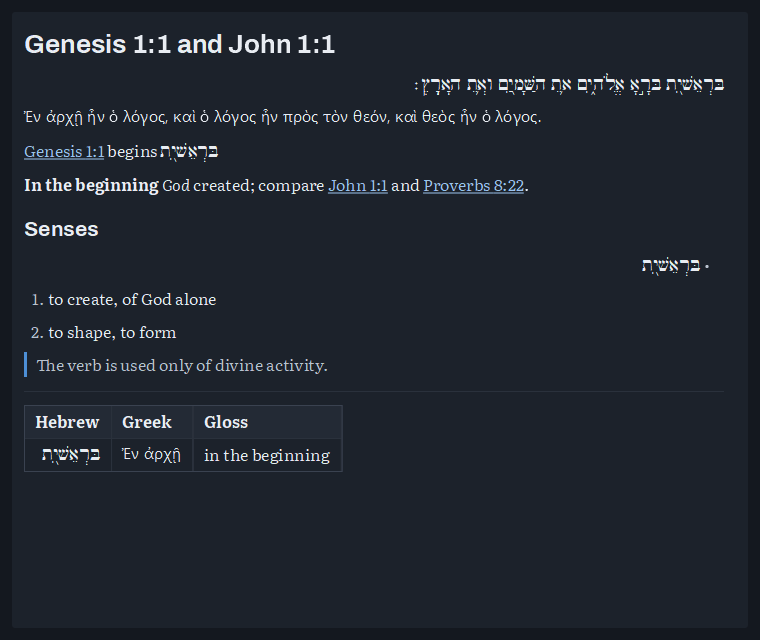
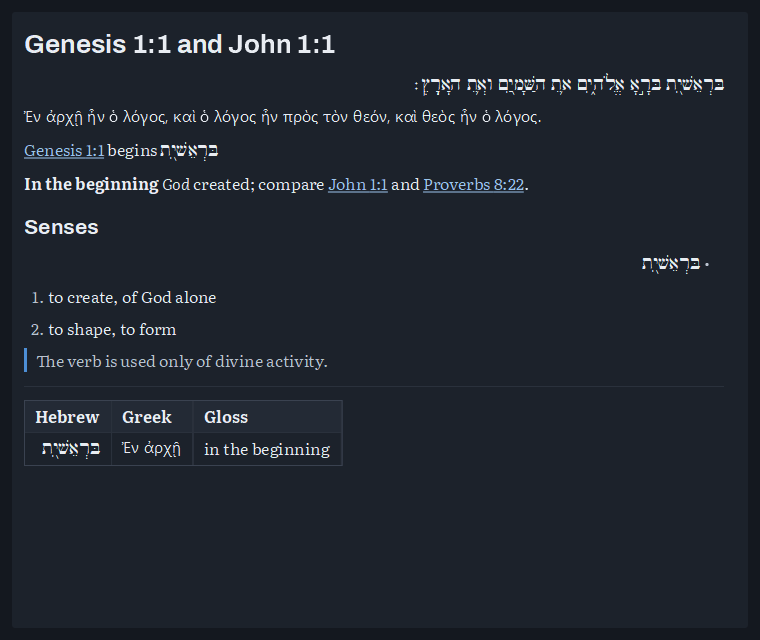
0.46.1: scan 55 - one line-height floor, one clipboard writer
SW_TEXT_GEOMETRY.floor_line_height serves the block floor, the empty
piece and SW_TEXT_BOX.row_height (0.46.0 moved one of three: a reading
face shorter than the UI face stood a one-line paragraph a UI line
tall). SW_COPYING.copy_text replaces five private copies and four
inline clipboard writers.

Before: each_line_adds_one_line_of_its_face FAILED (17 against 21);
after: 577 passed, 0 failed.

Claude-Session: https://claude.ai/code/session_01PRdwPEGwuqXn6rUw7sV4FC

diff --git a/.eiffel-workflow/evidence/design-scan-since-c1f2c5b.md b/.eiffel-workflow/evidence/design-scan-since-c1f2c5b.md
@@ -1,0 +1,140 @@
+# Design Scan (diff mode): simple_widgets, since c1f2c5b (0.46.0)
+# Date: 2026-10-28
+# Subjects: 16 changed classes (of 157 src files), compared against all of src/
+# Read-only scan; no source modified, nothing compiled.
+
+## Summary
+
+| Category | Findings | High | Medium | Low |
+|----------|----------|------|--------|-----|
+| Abstraction (Findings 1, 2, 3, 4, 6, 7) | 6 | 2 | 3 | 1 |
+| MI (Finding 5) | 1 | 0 | 1 | 0 |
+| Generics | 0 | 0 | 0 | 0 |
+| Contracts (Findings 8, 9) | 2 | 0 | 1 | 1 |
+| **Total** | **9** | **2** | **5** | **2** |
+
+## Findings
+
+| # | Priority | Category | Classes | Opportunity | Effort | Suggested Skill |
+|---|----------|----------|---------|-------------|--------|-----------------|
+| 1 | HIGH | A5 | SW_DATA_GRID, SW_DOC_UNITS, SW_PARAGRAPH_LIST, SW_TREE, SW_LABEL | `copy_text` is five private copies of one body (plus inline clipboard sites elsewhere): one shared helper | 1 feature, 5 deletions | /eiffel.abstract |
+| 2 | HIGH | D1 | SW_TEXT_GEOMETRY, SW_SHAPING | The two `line_height` floors in one class measure different font lists (the 0.46.0 fix reached one) | 1 helper, 2 call sites | refactor branch |
+| 3 | MEDIUM | A5 | SW_DOCK_HOST | `forget_floating_key` is a third copy of `forget_key`; `is_panel_floating` inlines `has_key` | 2 features | refactor |
+| 4 | MEDIUM | A1/A6 | SW_DATA_GRID, SW_PARAGRAPH_LIST, SW_TREE, SW_DOC_UNITS, SW_INTERLINEAR | Repeated "note context, build Copy items (enabled or disabled twin)" protocol | 1 helper | /eiffel.abstract |
+| 5 | MEDIUM | M2 | SW_WIDGET, SW_MENU | Menu-offering role lives in the SW_WIDGET root | 4 features | /eiffel.mi |
+| 6 | MEDIUM | A5 | SW_TEXT_BOX, SW_TEXT_SELECTION, SW_CHAT_THREAD, SW_SPREADSHEET | Older direct clipboard writers repeat the same shape | 3 features | fold into 1 |
+| 7 | LOW | A1/T1 | SW_DOCK_ZONE, SW_DOCK_HOST | Reach-through to `host.panels.i_th`, parallel title-draw branches, repeated 3.5 radius | cosmetic | none |
+| 8 | MEDIUM | contracts | SW_WIDGET, SW_WINDOW, SW_TREE, SW_DOCK_ZONE | Empty-menu case unguarded; thin contracts on new menu features | 2 features | /eiffel.contracts |
+| 9 | LOW | contracts | SW_MENU | `index_of_label` public without in-library use | none | none |
+
+## Detailed Findings
+
+### Finding 1: `copy_text` is five copies of one body (answer to the question asked: yes, a missing shared helper)
+**Priority:** HIGH
+**Category:** A5 (duplicated bodies), A6, M2
+**Classes:** SW_DATA_GRID, SW_DOC_UNITS, SW_PARAGRAPH_LIST, SW_TREE (each `copy_text (a_text: READABLE_STRING_GENERAL)`), SW_LABEL (`copy_text`, no argument, puts `text`)
+**Description:** Each 0.46.0 context menu added a private feature that creates an SW_CLIPBOARD and calls `set_text`. The four argument-taking bodies are identical; the label differs only in what it copies. SW_INTERLINEAR inherits SW_DOC_UNITS' copy and calls it (src/sw_interlinear.e:384, :400), so it is a sixth consumer. The wider library holds five more inline `create clip ... clip.set_text (...)` sites, so there is no single clipboard-writing door above SW_CLIPBOARD.
+**Evidence:**
+- src/sw_data_grid.e:748-755 `copy_text`; used at :631, :636, :640
+- src/sw_doc_units.e:406-413 `copy_text`; used at :398, :400
+- src/sw_paragraph_list.e:550-557 `copy_text`; used at :503, :508, :510
+- src/sw_tree.e:521-528 `copy_text`; used at :372
+- src/sw_label.e:211-218 `copy_text` (same body on `text`); agent at :205
+- Inline sites doing the same: src/sw_text_selection.e:178-184, src/sw_text_box.e:404 and :998-1005, src/sw_chat_thread.e:855-866, src/sw_spreadsheet.e:367-373
+**Suggested Action:** One effective feature `copy_to_clipboard (a_text)` with a postcondition, placed in a small stateless mixin (for example SW_CLIPBOARD_COPYING) that the owners inherit side by side with their existing parents, in the same shape as SW_TEXT_POINTING and SW_VSCROLLING. It has no state, so no feature-adaptation conflicts. SW_LABEL becomes `agent copy_to_clipboard (text)`. A per-owner helper object adds nothing here because there is no state to hold.
+**Effort:** 1 feature, 5 deletions, 6 call-site renames (optionally 5 more inline sites)
+
+### Finding 2: Two line-height floors in SW_TEXT_GEOMETRY measure different fonts
+**Priority:** HIGH (drift, D1)
+**Category:** D1
+**Classes:** SW_TEXT_GEOMETRY, SW_SHAPING, SW_TEXT_BOX
+**Description:** 0.46.0 changed SW_SHAPING.line_height to measure `primary_fonts` (the theme face leading the list) once `set_theme_faces` ran. In the same release SW_TEXT_GEOMETRY's per-line floor was changed to use the geometry's own `fonts` through `a_kit.facade.line_height` when a host role policy is set (src/sw_text_geometry.e:707-712). The whole-box floor in the same class still calls `al_kit.line_height (px)` (src/sw_text_geometry.e:538), right after `set_fonts (al_kit.fonts_for_role ...)` at :530. For a role-set host the per-line floor and the box floor therefore measure different faces and can disagree by a few pixels, the very symptom the fix comment describes (25 px against 21 px). SW_TEXT_BOX measures through the kit as well (src/sw_text_box.e:593). The fix reached one of three call sites. Which side should win is a behavior decision; the evidence shows only that they diverge when a role policy is set.
+**Evidence:**
+- src/sw_shaping.e:303-313 (`primary_fonts` branch), :332-333 (set in `set_theme_faces`), :352 (cleared in `set_fonts`)
+- src/sw_text_geometry.e:538 against :707-712
+- src/sw_text_box.e:593
+**Suggested Action:** One private `floor_height (a_kit, a_px)` in SW_TEXT_GEOMETRY used at :538 and :709, and an optional-fonts overload on SW_SHAPING.line_height so the geometry stops reaching through `a_kit.facade`. Add a test comparing the two floors for a role-set geometry.
+**Effort:** 1 helper, 2 call sites
+
+### Finding 3: Key-list helpers duplicated inside SW_DOCK_HOST
+**Priority:** MEDIUM
+**Category:** A5
+**Classes:** SW_DOCK_HOST
+**Description:** 0.46.0 added `has_key` and `forget_key` (generic over a key list) for the maximizable and marked lists, but the older floating list keeps inline copies: `forget_floating_key` repeats the `forget_key` loop line for line, and `is_panel_floating` repeats `has_key` with `same_string` instead of `same_string_general`.
+**Evidence:**
+- src/sw_dock_host.e:1191-1195 `has_key`; :1197-1213 `forget_key` (with postcondition `gone`)
+- src/sw_dock_host.e:1139-1153 `forget_floating_key` (same loop, no postcondition)
+- src/sw_dock_host.e:732 `is_panel_floating` inlines the `has_key` body
+- three lists of panel keys: `floating_keys` :1135, `maximizable_keys` :1179, `marked_keys` :1185, each extended with `.key.twin` (:637, :704, :769)
+**Suggested Action:** Call `has_key (floating_keys, ...)` and `forget_key (floating_keys, ...)`. Larger step: a small SW_KEY_SET class (add, remove, has with the postconditions once) held three times.
+**Effort:** 2 features now, 1 small class later
+
+### Finding 4: The context-menu protocol over a pointed item is repeated by five readers
+**Priority:** MEDIUM
+**Category:** A1/A6
+**Classes:** SW_DATA_GRID, SW_PARAGRAPH_LIST, SW_TREE, SW_DOC_UNITS, SW_INTERLINEAR
+**Description:** Every reader notes the pointed item in a differently named attribute (`context_model` and `context_column`, `context_item`, `context_row`, `context_item`, `context_token`), creates the menu, adds an enabled Copy item or a disabled twin (`add_item ("Copy ...", "", False, Void)`), and promises `ensure then offered: Result /= Void`. The attribute exists for the client's `menu_extension`, so clients learn five names for one idea.
+**Evidence:**
+- src/sw_data_grid.e:615-641 (enabled and disabled pairs at :630-638)
+- src/sw_paragraph_list.e:496-514 (pair at :502-506)
+- src/sw_tree.e:347-379 (pair at :371-375)
+- src/sw_doc_units.e:382-404
+- src/sw_interlinear.e:377-391
+**Suggested Action:** In the mixin from Finding 1 add `add_copy_item (a_menu, a_label, a_has_text, a_text)` so each menu reads declaratively. Keep the per-class context noting (types differ) but document one convention next to `menu_extension` in SW_WIDGET.
+**Effort:** 1 helper feature, 5 classes simplified
+
+### Finding 5: Menu-extension protocol lives in the SW_WIDGET root
+**Priority:** MEDIUM
+**Category:** M2
+**Classes:** SW_WIDGET (src/sw_widget.e:666-705), SW_WINDOW (src/sw_window.e:2337)
+**Description:** `context_menu`, `menu_extension`, `set_menu_extension` and `offered_menu` form one role (menu offering; `offered_menu` is the template method, `context_menu` the hook). It sits in the root every widget inherits, beside `pending_menu` and `take_pending_menu` (src/sw_widget.e:652-663), a second menu role (popup hand-off for combos, selects and tabs). A mixin for menu offering would be the side-by-side shape Larry prefers. Cost: the `undefine ... context_menu` lists (src/sw_document_view.e:72, src/sw_doc_units.e:40 and :48, src/sw_paragraph_list.e:84 and :95) must be revisited, so this is a refactor rather than a quick win.
+**Suggested Action:** /eiffel.mi only if the root keeps growing; nothing required today.
+**Effort:** 4 features moved; touches the inherit clauses of about 10 classes
+
+### Finding 6: Older direct clipboard writers repeat the same shape
+**Priority:** MEDIUM
+**Category:** A5
+**Classes:** SW_TEXT_SELECTION, SW_TEXT_BOX, SW_CHAT_THREAD, SW_SPREADSHEET (none changed in this diff; listed because Finding 1 would unify them)
+**Description:** Three `copy_selection` features differ only in a guard (`has_selection`, plus `not is_masked` in the text box). With Finding 1's helper they shrink to a guard and one call.
+**Evidence:** src/sw_text_selection.e:177-185; src/sw_text_box.e:400-410; src/sw_chat_thread.e:855-866; src/sw_spreadsheet.e:365-373
+**Suggested Action:** Fold into Finding 1's extraction.
+**Effort:** 3 features simplified
+
+### Finding 7: Dock zone and host reach-through, repeated literal
+**Priority:** LOW
+**Category:** A1/T1
+**Classes:** SW_DOCK_ZONE, SW_DOCK_HOST
+**Description:** SW_DOCK_ZONE repeats `host.panels.i_th (n)` and `host.panels.i_th (host.maximized_panel).zone` many times (for example src/sw_dock_zone.e:172, :279, :316-325, :475). A host query such as `panel_title (i)` or `is_panel_in_zone (i, z)` would shorten those and keep `panels` private. The folded strip draws its titles in two parallel branches (src/sw_dock_zone.e:845-860); the second differs only by `push_rotation`. The marker-dot radius 3.5 appears in both branches (:848 area and :858 area) and belongs in one named constant. Cosmetic.
+**Effort:** 2 features
+
+### Finding 8: Contract gaps around the new menu features
+**Priority:** MEDIUM
+**Category:** contracts (A4)
+**Classes:** SW_WIDGET, SW_WINDOW, SW_TREE, SW_DOCK_ZONE
+**Description:**
+- `offered_menu` promises non-empty only when an extension exists (src/sw_widget.e:704). Without an extension it returns `context_menu`'s result as is (:705-706 region, the `else` branch), so any widget that returns an empty non-Void menu reaches `show_popup` (src/sw_window.e:2337-2350) unguarded. Either add a root `ensure` on `context_menu` (Void or non-empty) or normalize the empty case in both branches of `offered_menu`.
+- SW_TREE.context_menu has `ensure then offered` but no postcondition tying `context_row` to 0..visible count (src/sw_tree.e:347-379), unlike SW_PARAGRAPH_LIST's `noted` clause (src/sw_paragraph_list.e:512-514).
+- SW_DATA_GRID.context_menu notes `context_model` and `context_column` (src/sw_data_grid.e:615-645); I read only to line 645 and did not locate an `ensure` clause there, so verify before acting.
+- All five `copy_text` features lack a postcondition (see Finding 1).
+**Suggested Action:** The `offered_menu` normalization plus a root `ensure` fixes the gap for every subclass at once.
+**Effort:** 2 features
+
+### Finding 9: `index_of_label` has no in-library caller
+**Priority:** LOW
+**Category:** contracts / API
+**Classes:** SW_MENU (src/sw_menu.e:111-132)
+**Description:** `index_of_label` is documented "for tests and for clients" and grep over src/ found only its declaration, which is acceptable as client API. `append_items` (src/sw_menu.e:85-109) requires `not_self` and ensures growth, with the label parallelism covered through `add_item`'s `parallel` postcondition. Noted for completeness; no action required.
+**Effort:** none
+
+## Not found
+- Generics (G1-G4): no new candidates in the subjects; SW_TREE [G] already constrains its node type and the new code adds no ANY-typed collections.
+- `push_rotation` (src/sw_painter.e:427-433) and `vanish` (src/sw_widget.e:73-88) each have one definition in src/; no duplicated bodies.
+- Other 0.46.0 touches (src/sw_document_view.e one-line undefine, src/sw_parallel_text.e `set_item_noun ("verse")`, src/sw_window.e switch to `offered_menu`) raise no finding.
+
+## Recommended Order
+
+1. Finding 2 (live drift: the two floors disagree) - verify and fix before any refactor.
+2. Finding 1 with Findings 6 and 4 - one mixin carrying `copy_to_clipboard` and `add_copy_item`; removes five private copies and simplifies five more sites.
+3. Finding 8 - one `offered_menu` normalization and a root ensure; cheap and covers every widget.
+4. Finding 3 - use `has_key` and `forget_key` for the floating list.
+5. Findings 5, 7, 9 - only if the files keep growing.

diff --git a/CHANGELOG.md b/CHANGELOG.md
@@ -7,6 +7,11 @@ and this project adheres to [Semantic Versioning](https://semver.org/spec/v2.0.0
 
 ## [Unreleased] — Wave 3 in progress
 
+### Fixed (0.46.1 - design scan 55)
+
+- One floor for a line's height: `SW_TEXT_GEOMETRY.floor_line_height` (the leading face of a host's role policy, else the kit's) serves the block floor, the empty-piece floor and `SW_TEXT_BOX.row_height`. 0.46.0 had moved one of three: a document whose reading face has a shorter line than the UI face stood a one-line paragraph a UI line tall, so its second line added 17 px and its third 21. Before: `each_line_adds_one_line_of_its_face` FAILED; after: 577 passed, 0 failed. Also `empty_document_block_stands_a_line_of_its_face`.
+- One clipboard writer: the parentless mixin `SW_COPYING.copy_text`, inherited by `SW_DATA_GRID`, `SW_TREE`, `SW_LABEL`, `SW_PARAGRAPH_LIST`, `SW_TEXT_SELECTION` (so the document view, parallel text and interlinear), `SW_TEXT_BOX`, `SW_CHAT_THREAD` and `SW_SPREADSHEET`; five private copies from 0.46.0 and four inline writers are gone.
+
 ### Added (0.46.0 - right-click menus everywhere; panes that fold and maximize)
 
 - `SW_WIDGET.set_menu_extension` and `offered_menu`: a client's own items stand above a widget's own right-click menu, a separator between; `SW_WINDOW` presents `offered_menu`. `SW_MENU.append_items` and `index_of_label`.

diff --git a/README.md b/README.md
@@ -44,6 +44,7 @@ theme, with evidence PNGs in `evidence/`.
 | 0.27.0 | GW-12 | The query builder clause tree: `SW_QUERY_NODE` with heirs `SW_QUERY_GROUP`, `SW_QUERY_CONDITION` and `SW_QUERY_PROXIMITY`, typed value pickers; the fifth scan's fixes (`SW_CHART.draw_chip`, a chassis-drawn legend, eight series colors) |
 | 0.28.0 | GW-29 | 100,000 shaped rows at 60 Hz: `SW_SHAPING.layout_styled` remembers layouts (`forget_layouts`), `SW_GRID_COLUMN.sort_key`; measured numbers below |
 | 0.28.1 | - | The sixth scan's fixes: editing a proximity's distance is heard, and a long distance renders |
+| 0.46.1 | - | Design scan 55: one line-height floor (a reading face shorter than the UI face no longer stands one-line paragraphs too tall); one clipboard writer, `SW_COPYING` |
 | 0.46.0 | - | Right-click menus on grids, trees, text views, lists and labels (and a client's own items above them); dock zones fold to named strips and panels maximize; an empty line is as tall as a line of text |
 | 0.45.2 | - | A refilled list opens at its top, not at a place asked for before |
 | 0.45.1 | - | Cantillated Hebrew lays out: a mark left of its run no longer breaks the edge math |
